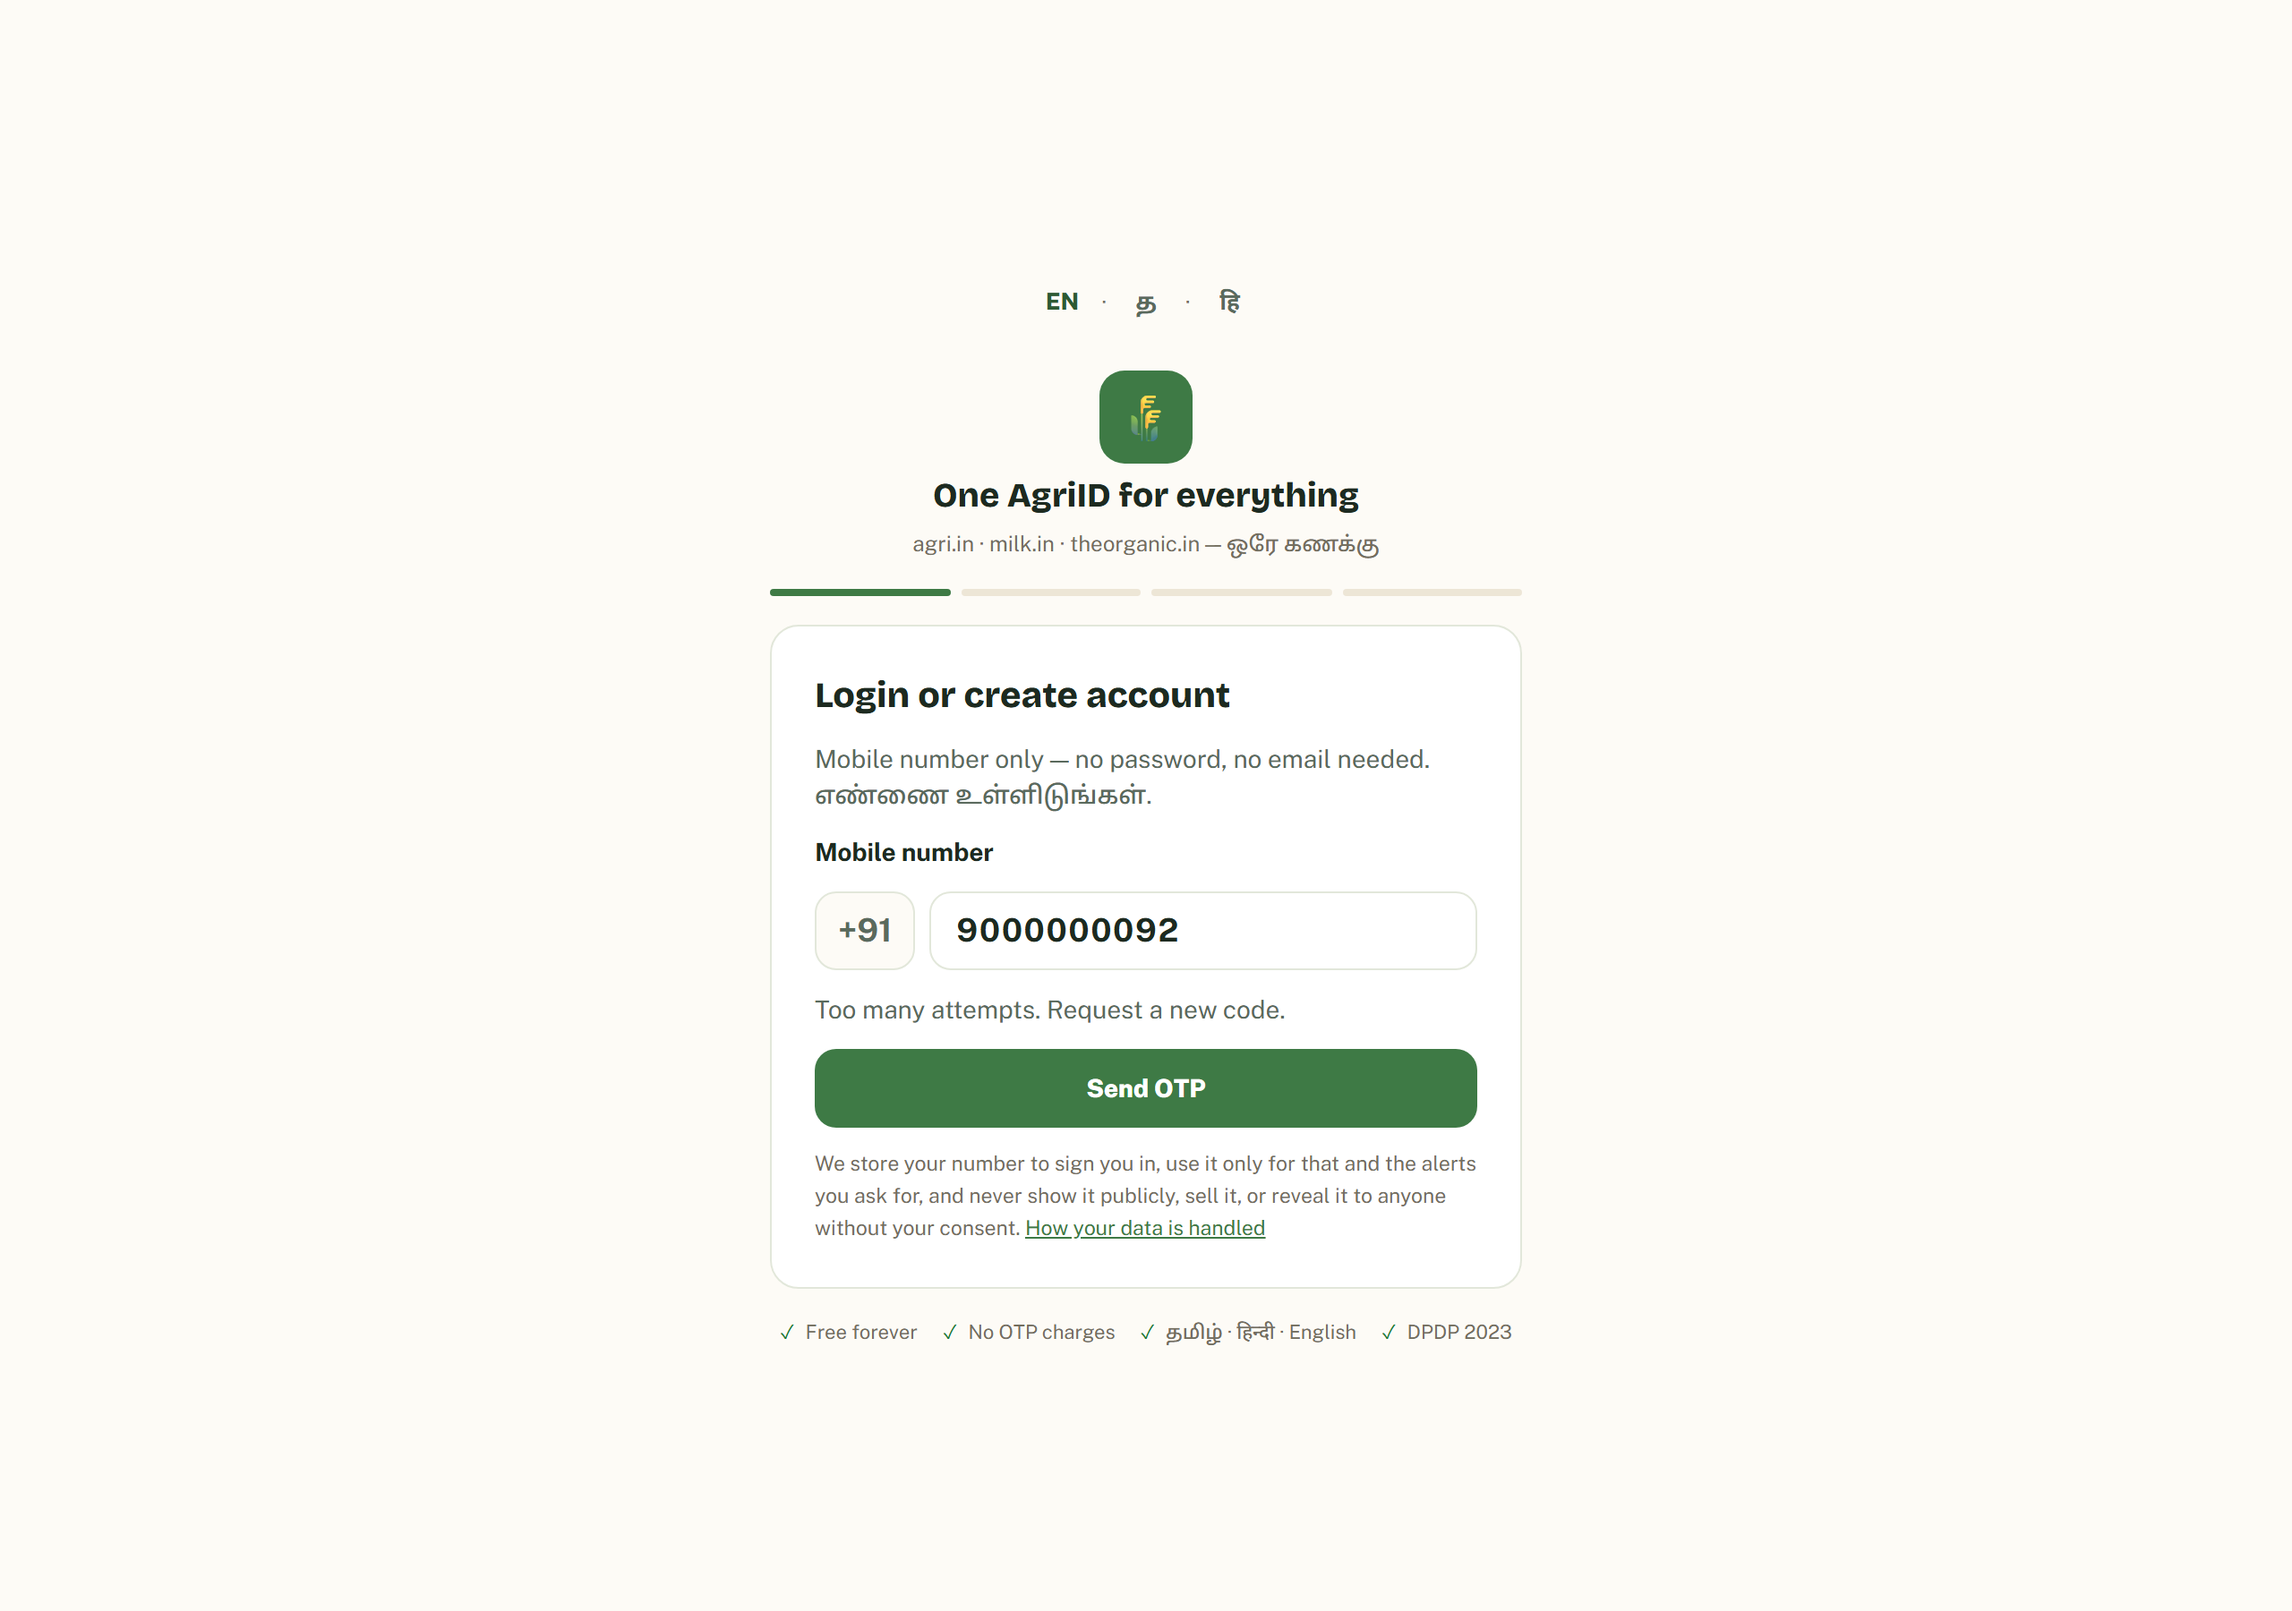
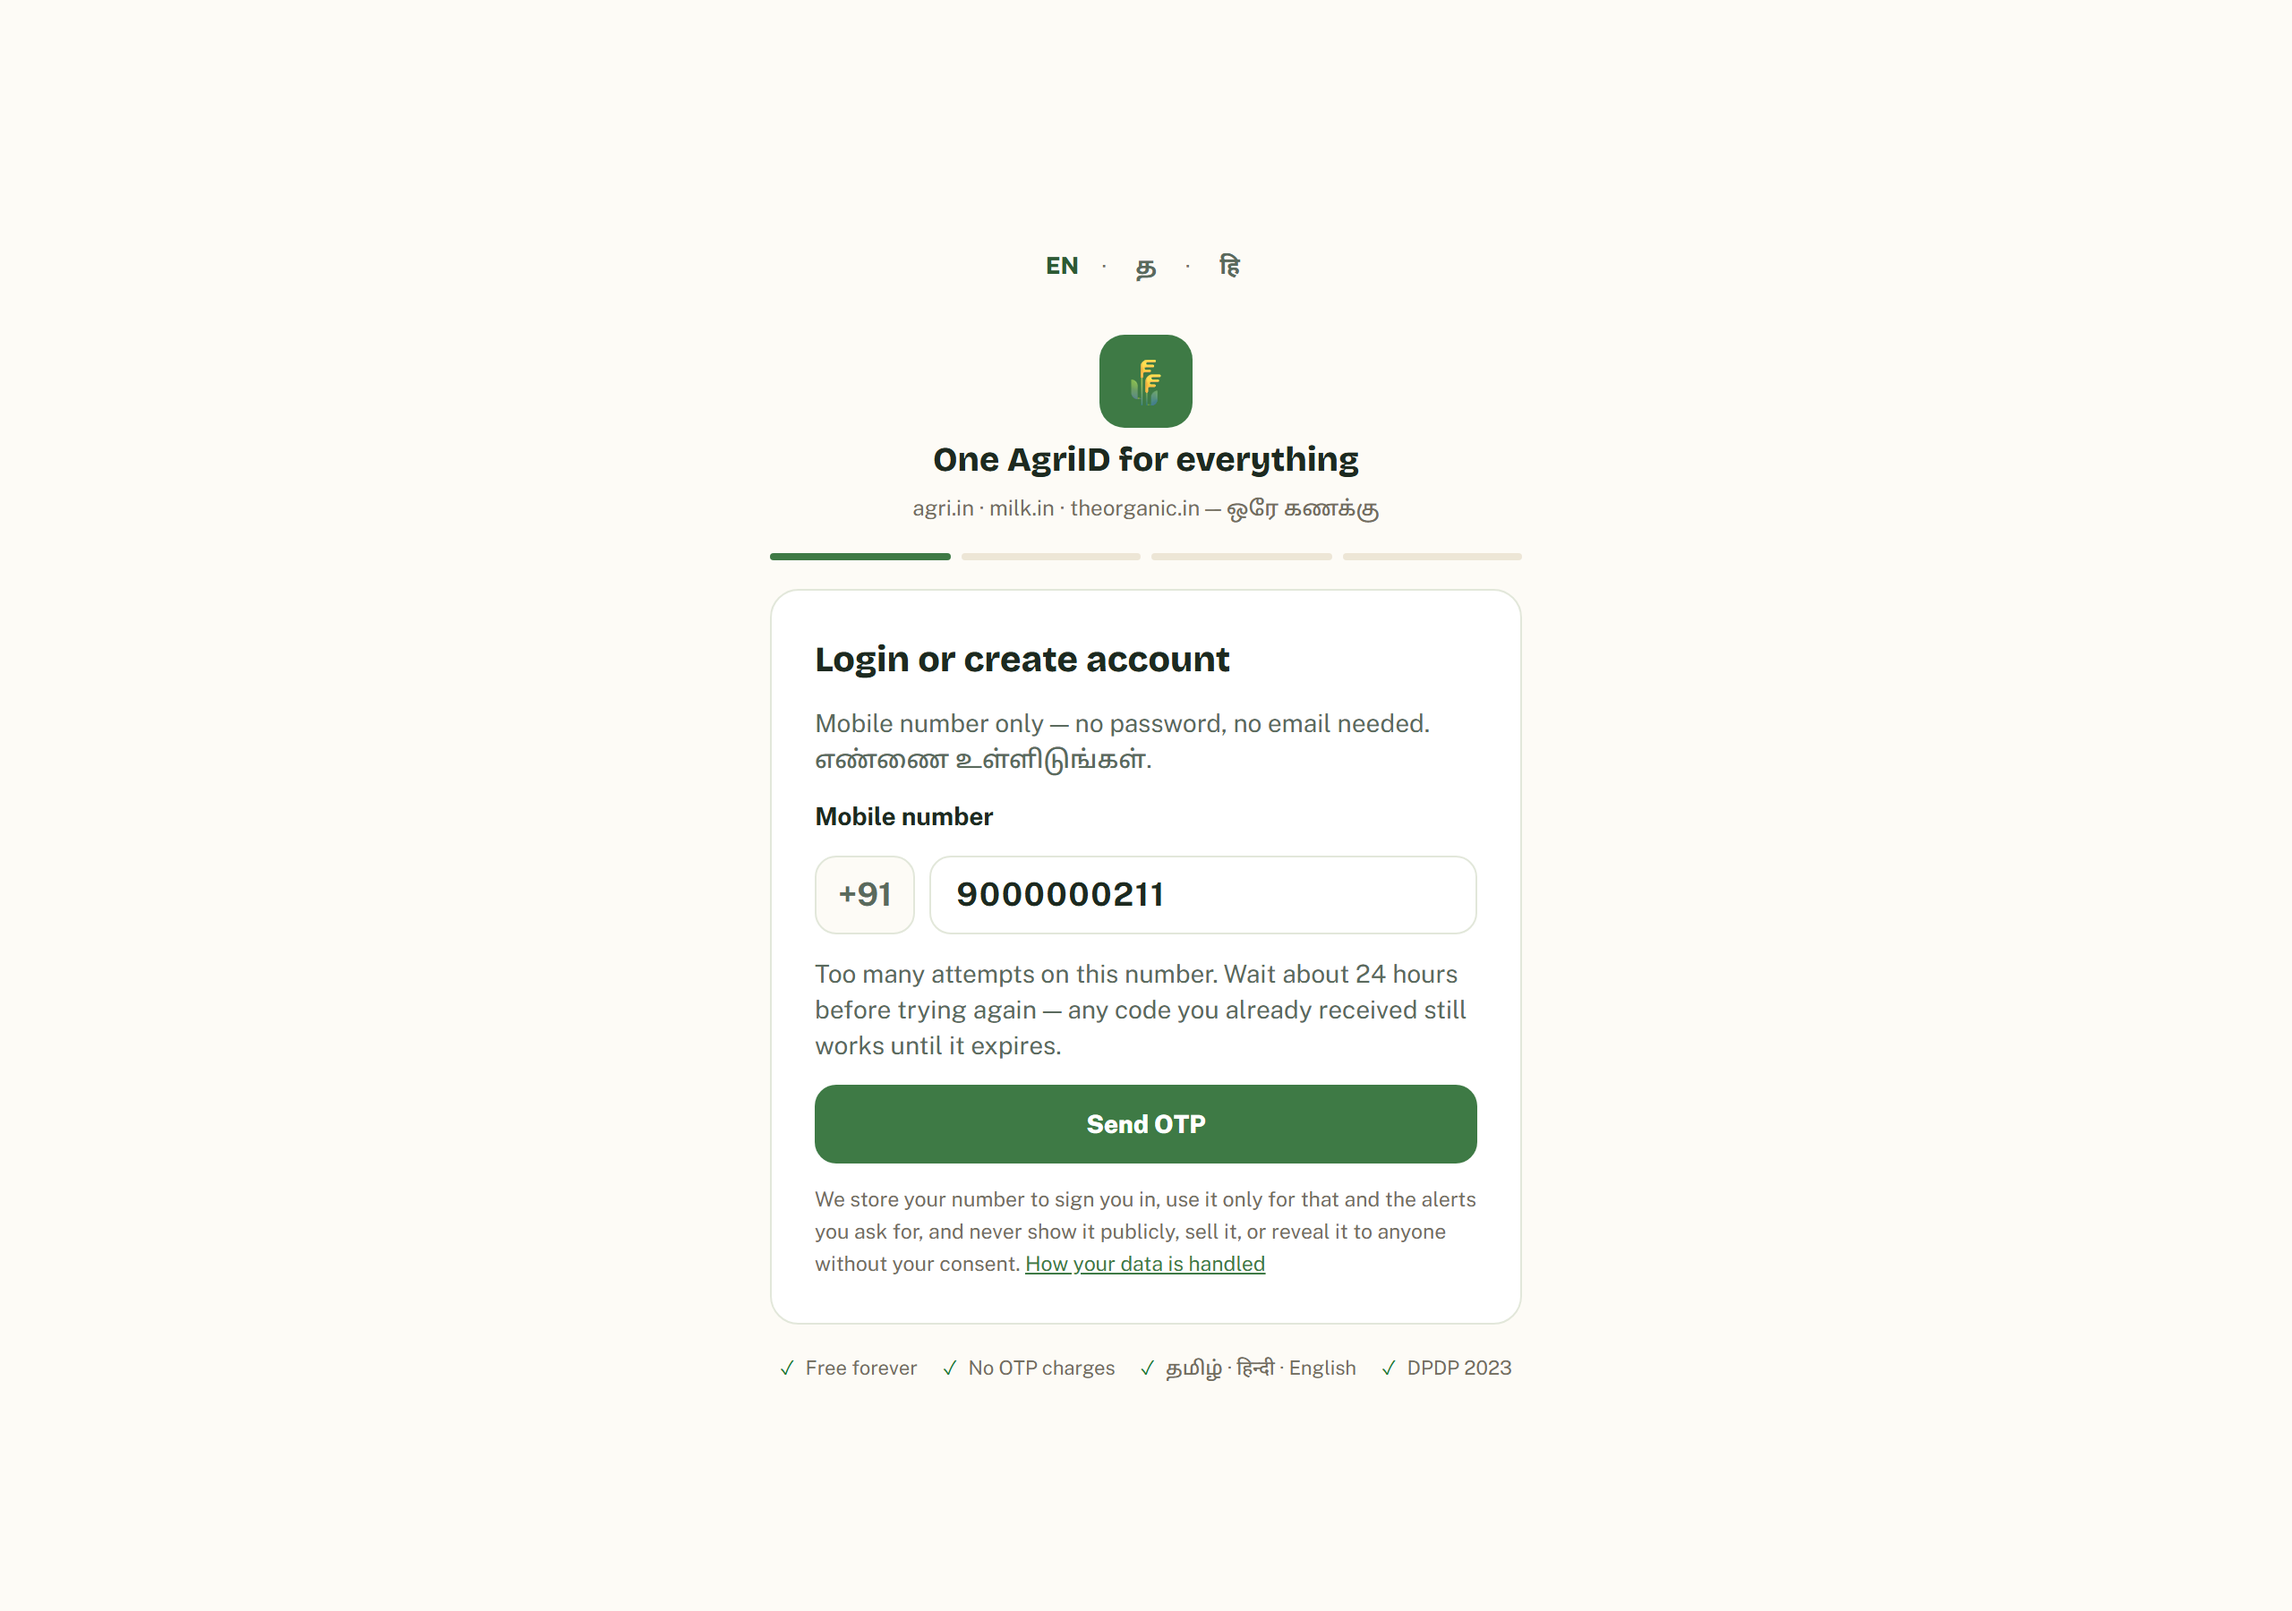
fix(id-u1): CP1 follow-ups — real 429 wait, gated copy, language subtitle
Four owner-approved changes from the CP1 walkthrough.

- The rate-limit message names a real wait. ApiError now carries retryAfter
  from the Retry-After header the OTP throttles have always sent and this
  client silently dropped, so the copy stops telling people to "request a
  new code" — the exact action the throttle just refused. Verified against
  both real throttles: the daily phone cap says "about 24 hours", the
  resend cooldown says "about 1 minute".
- The gated screen no longer tells an agri.in visitor that "the rest of
  Milk.in works without an account". It names all three sites and what
  stays free on them. Captured with the flag really flipped, then restored
  and re-verified with a live 200.
- The language step regains its subtitle: what the choice governs, and that
  it is reversible. That second half is the only reassurance available on a
  step that commits on tap with no selected state.
- Returning users skip the done screen and redirect as before. The screen
  exists to name a signup reward; a year-old account has none.

My first cut of the wait message had two bugs of its own, both caught by
re-capturing rather than by reading the diff: "wait about 1440 minutes" for
the 24h cap, and "1 minutes". Waits of an hour or more are now said in
hours, and both strings are ICU plurals in all three catalogs.

diff --git a/apps/web-id/app/login/login-flow.tsx b/apps/web-id/app/login/login-flow.tsx
@@ -44,6 +44,29 @@ const SITES = [
   { host: "theorganic.in", icon: "\ud83c\udf3f", tagKey: "done.organicTag" },
 ] as const;
 
+/** The rate-limit message, naming the real wait when the server sent one.
+ *
+ * The throttles always send Retry-After; before ID-U1 the client dropped it
+ * and the copy said "request a new code" - the one action the throttle had
+ * just refused.
+ *
+ * The unit matters as much as the number. These windows are not all small:
+ * the resend cooldown is 30 s but the per-phone daily cap is a full 24 h, and
+ * "wait about 1440 minutes" is not something a person can act on. Anything an
+ * hour or longer is said in hours. Rounded UP throughout - telling someone to
+ * wait 13 when the window is 13.4 just sends them back for a second refusal.
+ */
+function lockedMessage(
+  err: ApiError,
+  t: (key: string, values?: Record<string, string | number>) => string,
+): string {
+  if (err.retryAfter === null) return t("otp.locked");
+  if (err.retryAfter >= 3600) {
+    return t("otp.lockedForHours", { hours: Math.ceil(err.retryAfter / 3600) });
+  }
+  return t("otp.lockedFor", { minutes: Math.max(1, Math.ceil(err.retryAfter / 60)) });
+}
+
 function safeNext(raw: string | undefined): string | null {
   // resume only ever returns to our own /authorize - anything else is dropped
   return raw && raw.startsWith("/authorize?") ? raw : null;
@@ -142,7 +165,9 @@ export function LoginFlow({
         return;
       }
       setError(
-        err instanceof ApiError && err.status === 429 ? t("otp.locked") : t("phone.invalid"),
+        err instanceof ApiError && err.status === 429
+          ? lockedMessage(err, t)
+          : t("phone.invalid"),
       );
     } finally {
       setBusy(false);
@@ -171,12 +196,15 @@ export function LoginFlow({
         setSuggestions(suggested.suggestions as string[]);
         finish("handle");
       } else {
-        finish("done");
+        // The done screen announces a SIGNUP. A returning login has no
+        // reward to name, so it goes where it was always going rather
+        // than paying an interstitial on every sign-in.
+        performRedirect();
       }
     } catch (err) {
       setCode("");
       const locked = err instanceof ApiError && err.status === 429;
-      setError(locked ? t("otp.locked") : t("otp.wrong"));
+      setError(locked ? lockedMessage(err as ApiError, t) : t("otp.wrong"));
     } finally {
       verifying.current = false;
       setBusy(false);
@@ -592,6 +620,10 @@ export function LoginFlow({
         {step === "language" && (
           <div className="flex flex-col gap-3">
             <h1 className="font-display text-xl font-bold text-ink">{t("language.title")}</h1>
+            {/* This step commits on tap - no selected state, no confirm -
+                so the only thing that can tell a farmer who mistapped that
+                the decision is reversible is this sentence. */}
+            <p className="text-sm text-sub">{t("language.subtitle")}</p>
             <div className="grid grid-cols-3 gap-2">
               <CategoryTile
                 icon="🌐"

diff --git a/apps/web-id/lib/api.ts b/apps/web-id/lib/api.ts
@@ -7,6 +7,14 @@ export class ApiError extends Error {
   constructor(
     public readonly status: number,
     public readonly detail: string,
+    /** Seconds until the caller may retry, from the response's `Retry-After`
+     * header; null when the server did not send one. The OTP throttles have
+     * always sent it (`OtpRateLimited.retry_after` -> `router.py`), but this
+     * client used to build errors from the JSON body alone and drop every
+     * header — so a rate-limited screen could not name the wait, and told
+     * people to "request a new code" instead, which is the exact action the
+     * throttle had just refused. */
+    public readonly retryAfter: number | null = null,
   ) {
     super(`${status}: ${detail}`);
   }
@@ -16,10 +24,21 @@ interface JsonBody {
   [key: string]: unknown;
 }
 
+function retryAfterSeconds(response: Response): number | null {
+  const raw = response.headers.get("retry-after");
+  if (raw === null) return null;
+  const seconds = Number(raw);
+  return Number.isFinite(seconds) && seconds > 0 ? seconds : null;
+}
+
 async function parse(response: Response): Promise<JsonBody> {
   const body = (await response.json().catch(() => ({}))) as JsonBody;
   if (!response.ok) {
-    throw new ApiError(response.status, String(body.detail ?? body.error ?? "request_failed"));
+    throw new ApiError(
+      response.status,
+      String(body.detail ?? body.error ?? "request_failed"),
+      retryAfterSeconds(response),
+    );
   }
   return body;
 }

diff --git a/docs/qa/id-visual-log.md b/docs/qa/id-visual-log.md
@@ -266,3 +266,32 @@ an explanation, not an error, exactly as the code comment intends.
 | **P6-Q1** | **The gated screen names the wrong site.** The live copy reads "We're finishing SMS verification with our provider. **The rest of Milk.in works without an account.**" — on `id.agri.in`, the shared login for all three sites. A farmer who bounced here from agri.in or theorganic.in is told to go use a dairy site. The string is a D30 leftover from when the gate was written for milk.in alone. | **Real bug on a launch-gate screen**, and the cheapest fix in this pass — one string, three catalogs. It needs to name the family or the site the visitor came from, not one sibling. |
 | P6-Q2 | **No notify-me capture.** The reference offers a phone field and "Notify me — one SMS when sign-ups open. Nothing else, ever." Live explains and stops, so a farmer turned away at the door leaves no way to be told when it opens. The machinery exists (D23 pincode-interest / notify). | A feature ADD on a page the prompt scopes as verify-only, so flagged rather than built. Worth it only if sign-ups are actually gated at launch. |
 | P6-Q3 | The reference gives the card a 🌱 and centres it; live is a plain left-aligned card. | Cosmetic. Recorded for completeness. |
+
+---
+
+## CP1 follow-ups (owner-approved)
+
+Four changes taken after the CP1 walkthrough. Proofs for `p2-otp-locked`,
+`p4-language` and `p6-gated` were re-captured against the new copy.
+
+| # | Change | Detail |
+|---|---|---|
+| CP1-1 | **The 429 now names a real wait** (closes P2-Q1 + P2-Q2). `ApiError` carries `retryAfter`, read from the `Retry-After` header the throttles have always sent and this client used to discard. The copy no longer says "request a new code" — the action the throttle had just refused. | Verified live against both throttles: the daily phone cap renders "Wait about **24 hours**", the resend cooldown renders "Wait about **1 minute**". |
+| CP1-2 | **The gated screen names the family, not one sibling** (closes P6-Q1). Was: "The rest of **Milk.in** works without an account", on id.agri.in. Now names agri.in, milk.in and theorganic.in and what stays free on them. | Re-captured with the flag genuinely flipped, then flipped back and re-verified with a live 200. |
+| CP1-3 | **The language step has its subtitle** (closes P4-Q1): what the choice governs, and that it is reversible — which is the half that matters on a step committing on tap. | Rendered in the re-captured proof. |
+| CP1-4 | **Returning users skip the done screen** (closes P5-Q2). `verifyAndLogin`'s existing-user branch calls `performRedirect()` directly, exactly as the flow behaved before this pass. | Verified live: an existing account landed straight on `/devices`, done screen never mounted. |
+
+Two bugs in my *own* first cut of CP1-1, both caught by re-capturing rather
+than by reading the diff:
+
+- **"Wait about 1440 minutes."** The per-phone cap is a full 24 h, and minutes
+  is the wrong unit for it. Anything an hour or over is now said in hours.
+- **"Wait about 1 minutes."** No plural handling. Both strings are now ICU
+  plurals in all three catalogs.
+
+The `isNewUser` guard on the coins line is deliberately kept even though
+returning users can no longer reach that screen. It costs nothing and the
+thing it prevents — announcing a signup bonus the ledger will never pay — is
+worth a dead branch.
+
+P5-Q1 (the bell strip on the done screen) stands as built, per your call.
